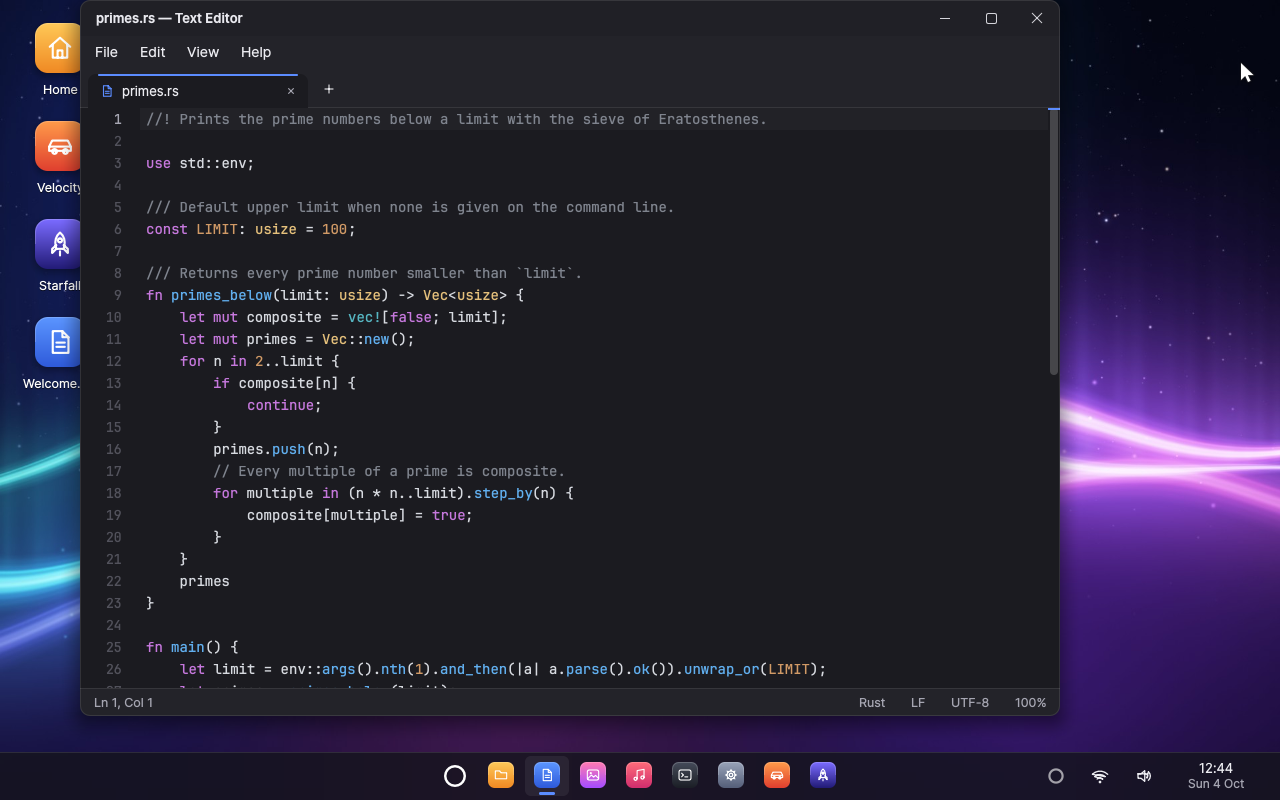
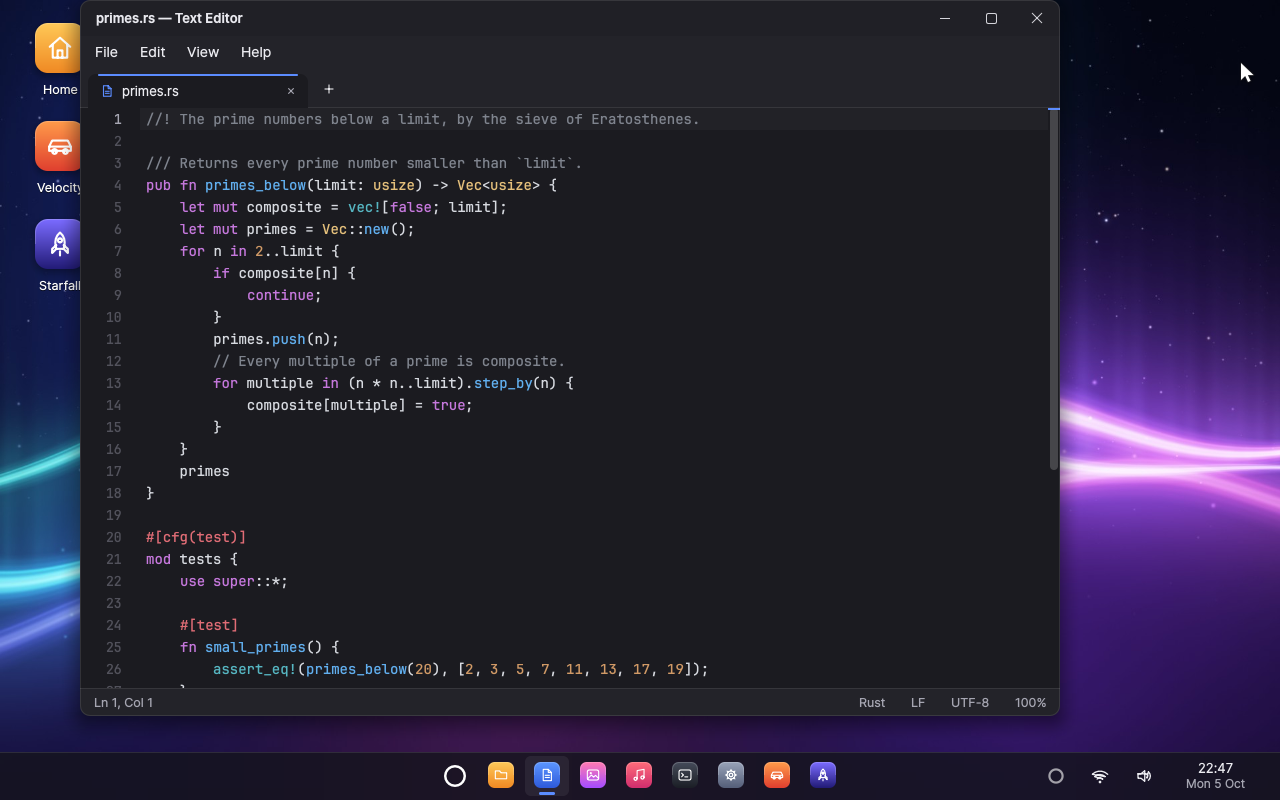
The home folder starts without sample documents
Welcome.txt on the desktop, and Notes.md and primes.rs in Documents,
are no longer installed: a new home folder has empty Documents and
Desktop folders (the file system makes them), and a home disk that
still holds unchanged copies drops them at its next boot, as it does
any sample removed from the system image. The sample pictures and
music stay.

The scripts that used them make their own:

* tests/ui/editor.vts starts the Text Editor on a new document, writes
  in it, searches it and saves it.
* tests/ui/persistence.vts writes Note.txt on the desktop through the
  Terminal before the reboot, and opens it from the desktop after it.
* tests/agent/app-files.vts has Files count the Pictures folder (eight
  files and the Trips folder) and open the picture it moved into
  Documents, in Photos.
* docs/screenshots.vts has the Terminal write a short Rust program
  before opening it in the Text Editor.

The README asks the agent to delete the City Lights photo instead of
Notes.md and no longer lists sample documents among the assets, and
its screenshots are taken again.

diff --git a/README.md b/README.md
@@ -267,7 +267,7 @@ Things to ask:
 * "Remind me to stretch in twenty minutes."
 * "What's using the most memory?"
 * "Start a race in Velocity."
-* "Delete Notes.md" — and see it ask you first.
+* "Delete the City Lights photo" — and see it ask you first.
 * "What do you know about me?"
 
 ## Using the desktop
@@ -431,7 +431,7 @@ The serial console (kernel log plus every program's output) is saved to
 | `tools/` | host programs generating wallpapers, sample pictures and music at build time, and `airsim` (the simulated Wi-Fi environment) |
 | `third_party/` | vendored crates with Veda patches (smoltcp) |
 | `xtask/` | the build system: cross-compilation, disk image, QEMU and VirtualBox, automation, the stand-in for Deepgram |
-| `assets/` | fonts, application manifests, sample documents |
+| `assets/` | fonts and application manifests |
 | `docs/` | documentation, the README's screenshots, and the icon and social preview (`docs/icon/`) |
 
 ## Documentation
